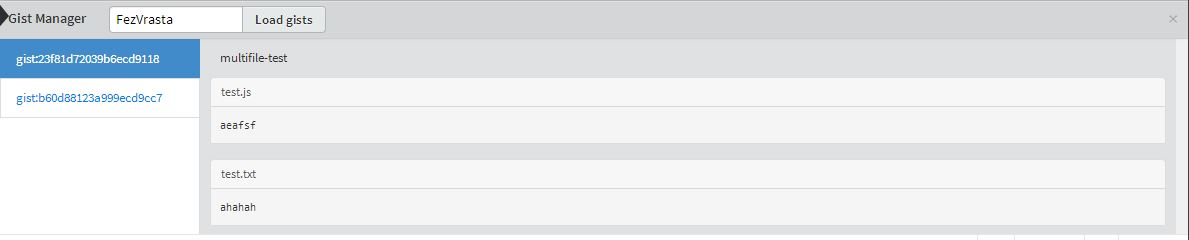
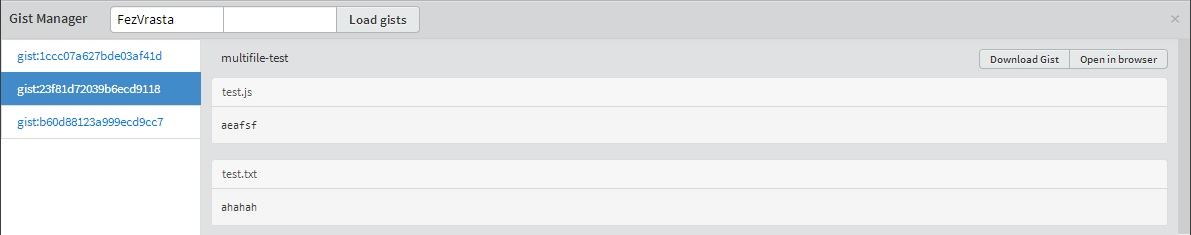
Various improvements.

diff --git a/main.js b/main.js
@@ -50,7 +50,9 @@ define(function (require, exports, module) {
                     return [value];
                 });
 
-                var $gist = $(Mustache.render(gist, gistData));
+                var vars = gistData;
+                $.extend(vars, Strings);
+                var $gist = $(Mustache.render(gist, vars));
                 $panel.find("#" + gistData.id).html($gist).data("loaded", true);
 
             });
@@ -67,42 +69,46 @@ define(function (require, exports, module) {
 
     function loadContent(username, password) {
 
-        if (password.length) { // If a password is defined, then try to login and get secret gists beside the public ones
+        var url,
+            headers;
 
-            $.ajax
-            ({
-                type: "GET",
-                url: "https://api.github.com/gists",
-                dataType: "json",
-                async: false,
-                headers: {
-                    "Authorization": "Basic " + btoa(username + ":" + password)
-                },
-                success: function (data) {
-                    gists = data;
-                    _renderContent(gists);
-                },
-                error: function () {
-                    _renderContent([]);
-                }
-            });
+        // Set headers and API URL depending if we are trying to get public gists, user's public gists or user's public&secret gists
+        if (username.length && password.length) {
 
-        } else { // If password is not defined, get just the public gists of the selected user
+            url = "https://api.github.com/gists";
+            headers = { "Authorization": "Basic " + btoa(username + ":" + password) };
 
-            $.getJSON("https://api.github.com/users/" + username + "/gists", function(data) {
-                gists = data;
-                _renderContent(gists);
-            })
-            .error( function() {
-                _renderContent([]);
-            });
+        } else if (username.length) {
+
+            url = "https://api.github.com/users/" + username + "/gists";
+            headers = { };
+
+        } else {
+
+            url = "https://api.github.com/gists";
+            headers =  { };
 
         }
+
+        $.ajax({
+            type: "GET",
+            url: url,
+            dataType: "json",
+            headers: headers,
+            success: function (data) {
+                gists = data;
+                _renderContent(gists);
+            },
+            error: function () {
+                _renderContent([]);
+            }
+        });
 
         function _renderContent(gists) {
 
             if (gists.length > 0) {
-                $content = $(Mustache.render(content, {"gists": gists}));
+                var vars = {"gists": gists};
+                $content = $(Mustache.render(content, vars));
             } else {
                 $content = $(Mustache.render(contentError, Strings));
             }

diff --git a/styles/gist-manager.less b/styles/gist-manager.less
@@ -10,7 +10,7 @@
         .btn-group {
             input {
                 margin: 0px;
-                width: 120px;
+                width: 100px;
                 border-right: 0;
                 padding-top: 3px;
                 border-radius: 4px 0 0 4px;
@@ -28,6 +28,7 @@
             background-color: #FFFFFF;
             height: 100%;
             box-shadow: inset -1px 1px 0px #DDDDDD;
+            overflow-y: auto;
             .list-group {
                 margin: 0;
                 .list-group-item {
@@ -35,7 +36,7 @@
                     a {
                         position: relative;
                         display: block;
-                        padding: 10px 15px;
+                        padding: 7px 15px;
                         margin-bottom: -1px;
                         border: 1px solid #DDDDDD;
                         &:hover {
@@ -61,6 +62,9 @@
                 display: none;
                 summary {
                     padding: 0 10px 10px 10px;
+                }
+                .btn-group {
+                    float: right;
                 }
                 .file {
                     margin-bottom: 15px;

diff --git a/styles/gist-manager.css b/styles/gist-manager.css
@@ -4,7 +4,7 @@
 }
 #gist-manager .toolbar .btn-group input {
   margin: 0px;
-  width: 120px;
+  width: 100px;
   border-right: 0;
   padding-top: 3px;
   border-radius: 4px 0 0 4px;
@@ -21,6 +21,7 @@
   background-color: #FFFFFF;
   height: 100%;
   box-shadow: inset -1px 1px 0px #dddddd;
+  overflow-y: auto;
 }
 #gist-manager .gist-manager-content .list .list-group {
   margin: 0;
@@ -31,7 +32,7 @@
 #gist-manager .gist-manager-content .list .list-group .list-group-item a {
   position: relative;
   display: block;
-  padding: 10px 15px;
+  padding: 7px 15px;
   margin-bottom: -1px;
   border: 1px solid #DDDDDD;
 }
@@ -56,6 +57,9 @@
 }
 #gist-manager .gist-manager-content .viewer .gist summary {
   padding: 0 10px 10px 10px;
+}
+#gist-manager .gist-manager-content .viewer .gist .btn-group {
+  float: right;
 }
 #gist-manager .gist-manager-content .viewer .gist .file {
   margin-bottom: 15px;

diff --git a/templates/panel.html b/templates/panel.html
@@ -3,8 +3,8 @@
     <div class="toolbar simple-toolbar-layout">
         <span class="title">Gist Manager</span>
         <div class="btn-group">
-            <input type="text" id="github-username" placeholder="{{GITHUB_USERNAME}}">
-            <input type="password" id="github-password" placeholder="password">
+            <input type="text" id="github-username" placeholder="{{USERNAME}}">
+            <input type="password" id="github-password" placeholder="{{PASSWORD}}">
             <button class="btn btn-default" id="load-gists">{{LOAD_GISTS}}</button>
         </div>
         <span class="pull-right">

diff --git a/nls/root/strings.js b/nls/root/strings.js
@@ -3,5 +3,9 @@
 define({
     LOAD_GISTS:         "Load gists",
     LOADING_ERROR:      "There was an error during the loading of Git Manager...",
-    GITHUB_USERNAME:    "GitHub username..."
+    USERNAME:           "username",
+    PASSWORD:           "password",
+    DOWNLOAD_GIST:      "Download Gist",
+    OPEN_IN_BROWSER:    "Open in browser"
+
 });

diff --git a/templates/gist.html b/templates/gist.html
@@ -1,3 +1,8 @@
+<div class="btn-group">
+    <a class="btn btn-default btn-small" href="{{html_url}}/download">{{DOWNLOAD_GIST}}</a>
+    <a class="btn btn-default btn-small" href="{{html_url}}">{{OPEN_IN_BROWSER}}</a>
+</div>
+
 <summary>{{description}}</summary>
 
 {{#files}}

diff --git a/README.md b/README.md
@@ -6,5 +6,14 @@ Simply specify the GitHub username you want to search and all the related gists 
 
 To show Gist Manager open it clicking on **View > Show Gist Manager**.
 
+## Supported features:
+- Load public Gists of a specific GitHub user.
+- Load public and secret Gists of a specific GitHub user (providing password).
+- Open Gist in browser
+- Download Gist
+
+## To do:
+- Create Gists
+- Edit Gists
 
 ![preview](/readmefiles/preview.jpg)

diff --git a/CHANGELOG.md b/CHANGELOG.md
@@ -1,2 +1,4 @@
-## 0.0.4-dev
+## 0.0.4
 * Added support for localization.
+* Now is possible load public gists, user's public gists and user's secret gists.
+* Added buttons to download gist or open in browser
